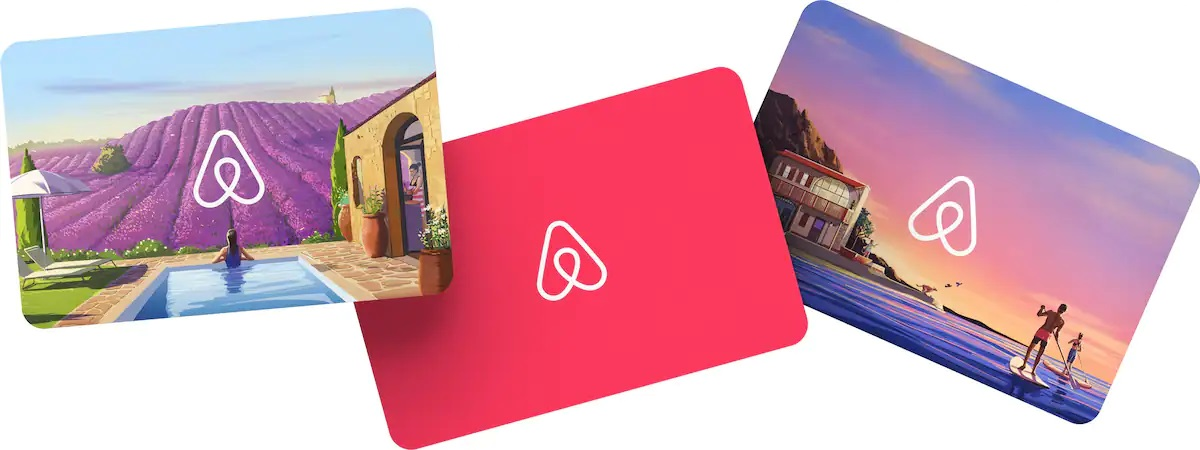
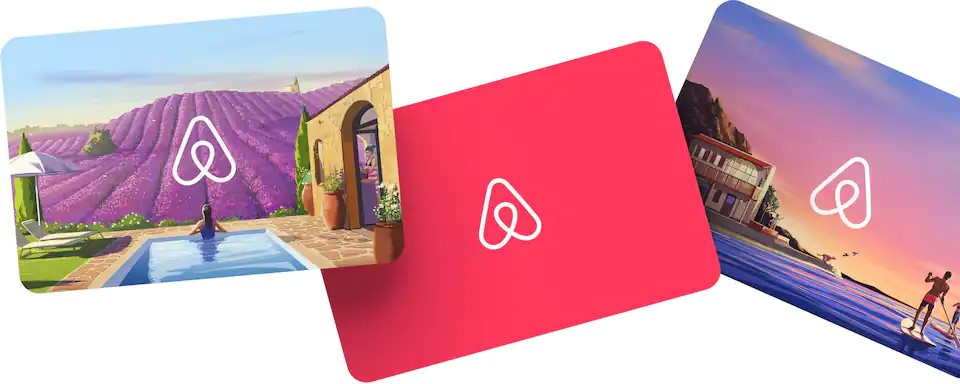
Fixed some major bugs

diff --git a/index.html b/index.html
@@ -42,8 +42,8 @@
             </div>
             <div class="nav-middle-searchbar">
               <div class="nav-middle-searchbar-group">
-                <div class="searchbar-item">
-                  <div class="searchbar-item__location divider">
+                <div class="searchbar-item" id="loc">
+                  <div class="searchbar-item__location">
                     <div class="input-title">Location</div>
                     <input
                       class="searchbar-inputs"
@@ -52,8 +52,8 @@
                     />
                   </div>
                 </div>
-                <div class="searchbar-item__check-in searchbar-item" >
-                  <div class="searchbar-item__check-in-item divider">
+                <div class="searchbar-item__check-in searchbar-item divider" id="in" >
+                  <div class="searchbar-item__check-in-item ">
                     <div class="input-title">Check in</div>
                     <input
                       class="searchbar-inputs"
@@ -62,8 +62,8 @@
                     />
                   </div>
                 </div>
-                <div class="searchbar-item__check-out searchbar-item">
-                  <div class="searchbar-item__check-out-item divider">
+                <div class="searchbar-item__check-out searchbar-item divider" id="out">
+                  <div class="searchbar-item__check-out-item">
                     <div class="input-title">Check out</div>
                     <input
                       class="searchbar-inputs"
@@ -72,7 +72,7 @@
                     />
                   </div>
                 </div>
-                <div id="searchbar-last" class="searchbar-item">
+                <div id="searchbar-last" class="searchbar-item divider">
                   <div class="hovering">
                     <div id="guests">
                       <div class="input-title">Guests</div>
@@ -511,9 +511,9 @@
             <ul class="footer-section-part-ul">
             <a href=""><li>Help Center</li></a> 
             <a href=""><li>Safety information</li></a>
+            <a href=""><li>Supporting people with disabilities</li></a>
             <a href=""><li>Cancellation options</li></a>
             <a href=""><li>Our COVID-19 Response</li></a>
-            <a href=""><li>Supporting people with disabilities</li></a>
             <a href=""><li>Report a neighborhood concern</li></a> 
             </ul>
           </div>

diff --git a/css/styles.css b/css/styles.css
@@ -134,6 +134,13 @@ body {
   border-radius: 3.2rem;
   
 }
+
+.searchbar-item:hover::before , .searchbar-item:hover + .searchbar-item::before
+{
+  height: 0;
+}
+
+
 .searchbar-item:last-of-type:hover
 {
   background-color:transparent;
@@ -170,13 +177,13 @@ body {
 .divider{
   position: relative;
 }
-.divider::after{
+.divider::before{
   content: '';
   position: absolute;
-  right: 0;
   border-right: 1px solid rgb(221, 221, 221);
   height: 32px;
-  top: 2px;
+  top: 17px;
+  left: -1px;
 }
 .searchbar-item__check-in-item{
   padding-right: 25px;
@@ -587,7 +594,7 @@ main{
 }
 
 .card-group__item {
-  background-size: contain;
+  background-size: cover;
   background-repeat: no-repeat;
   padding: 4rem;
   display: flex;
@@ -640,6 +647,7 @@ main{
   align-items: flex-start;
   justify-content: space-between;
   background-color: var(--whiteColor);
+  
 }
 
 .giftcard-section-left {
@@ -685,8 +693,8 @@ main{
 }
 .gifcard-pic {
   width: auto;
-  height: 370px;
-  right: -182px;
+  height: 354px;
+  right: -80px;
   position: absolute;
   object-fit: cover;
   object-position: center center;
@@ -971,7 +979,7 @@ footer span {
 }
 
 footer a {
-  color: var(--blackColor);
+  color: rgb(34, 34, 34);
 }
 
 .footer-section-right-ul {
